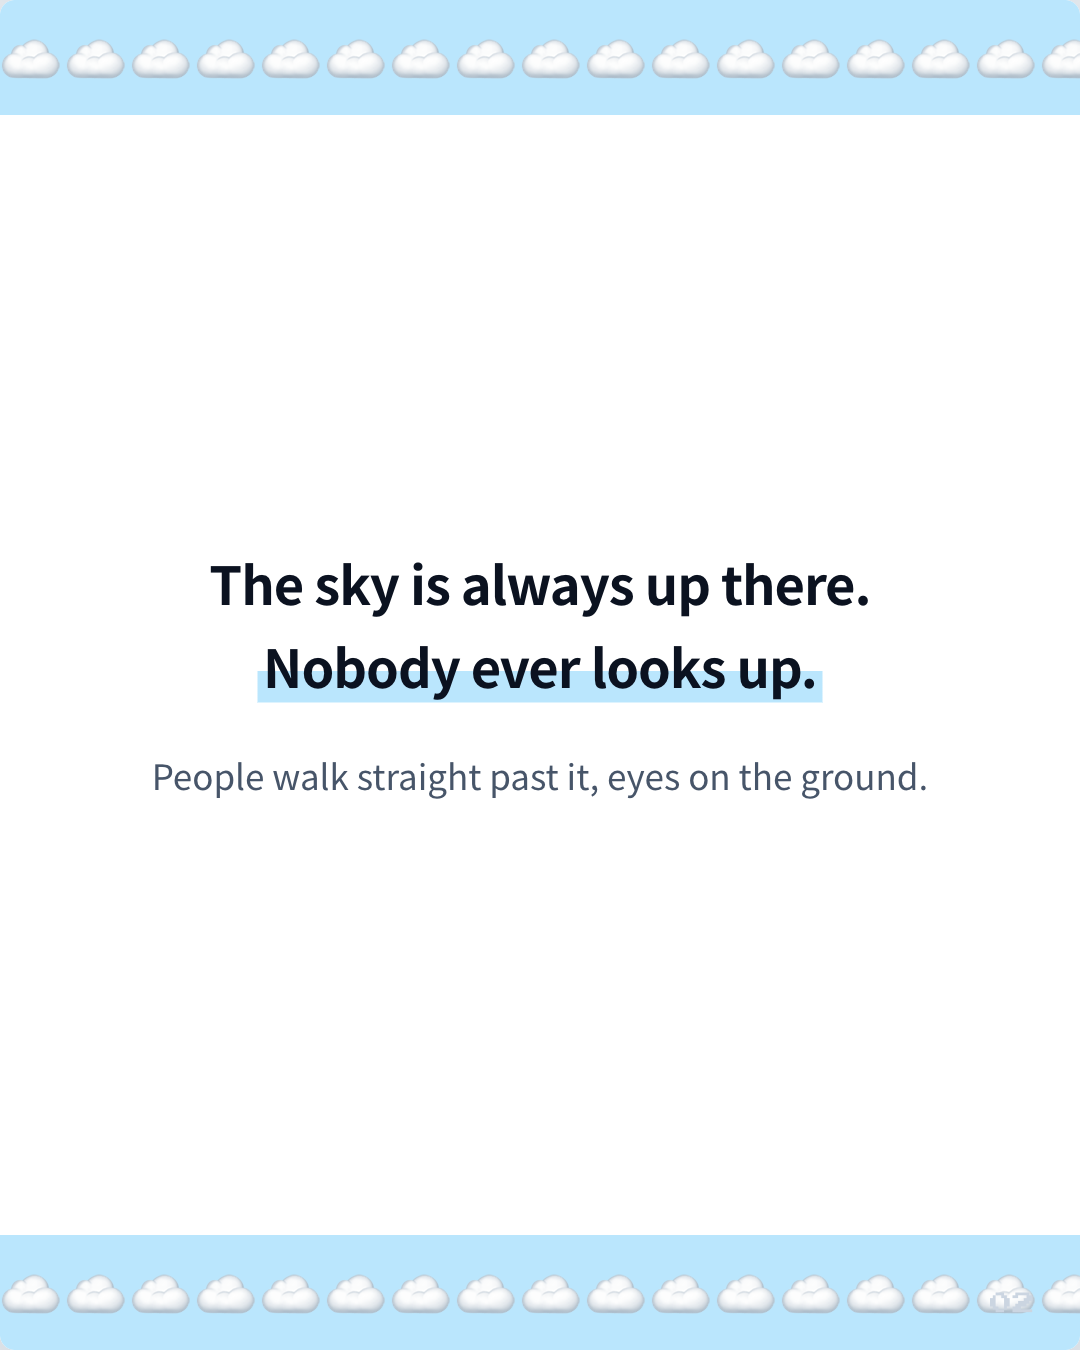
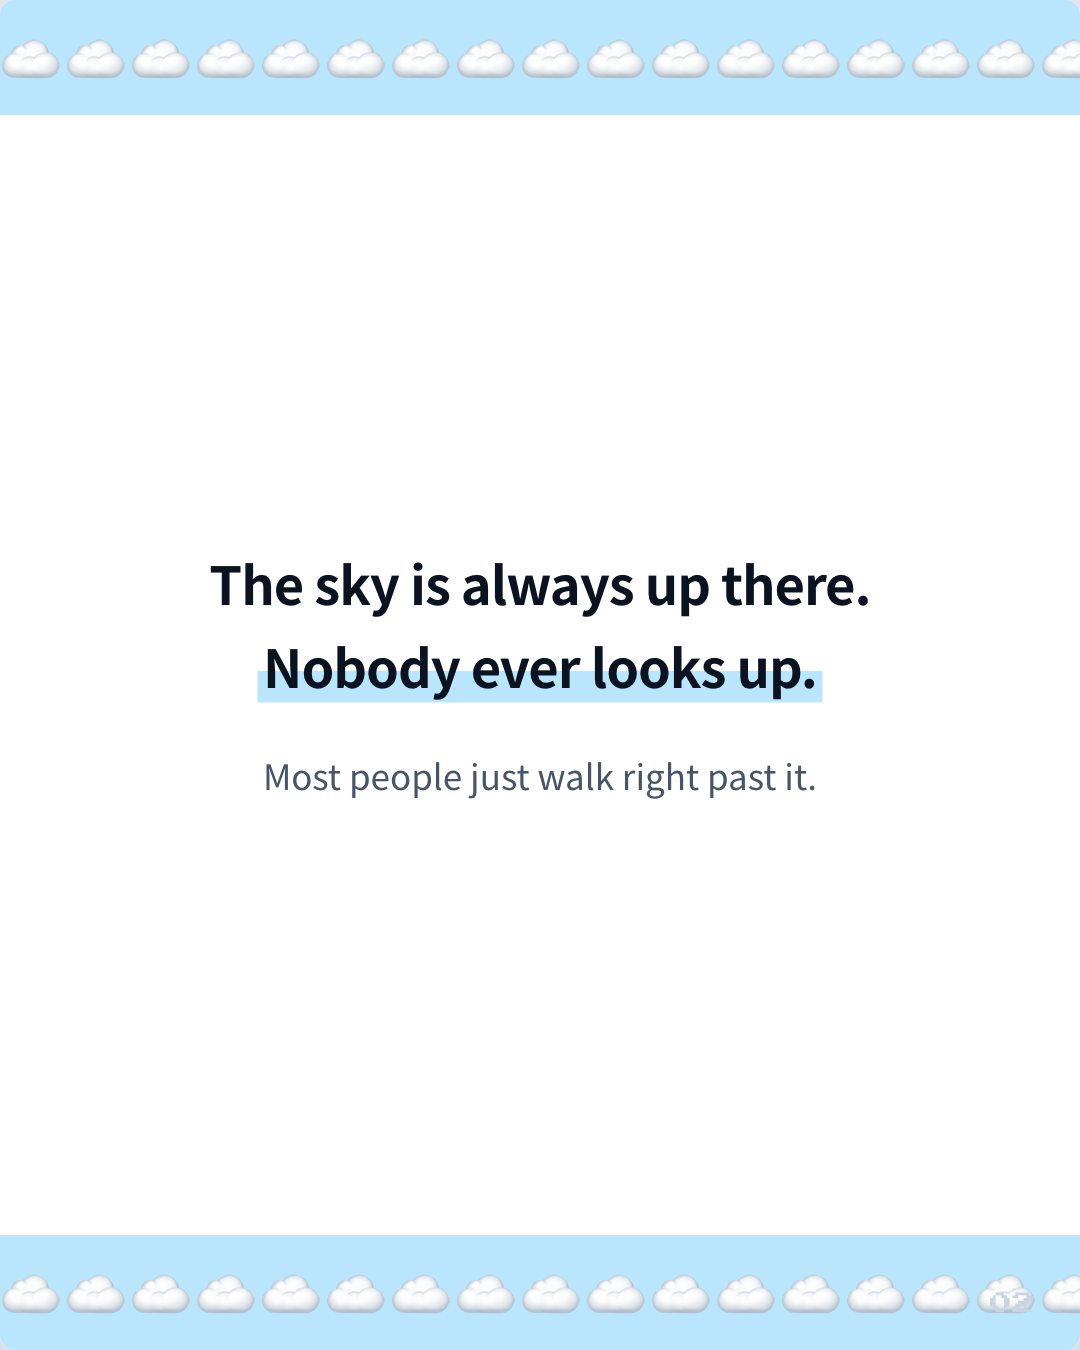
copy(en): AI 티 나는 표현 평범하게 (02·04·06)

Changed region(s): [[0.1222, 0.56, 0.8556, 0.5911]]

diff --git a/cardnews_en.html b/cardnews_en.html
@@ -225,7 +225,7 @@
     <section class="card">
       <div class="cloud-band top">☁☁☁☁☁☁☁☁☁☁☁☁☁☁☁☁☁☁☁☁</div>
       <p class="lead">The sky is always up there.<br><span class="hi">Nobody ever looks up.</span></p>
-      <p class="body">People walk straight past it, eyes on the ground.</p>
+      <p class="body">Most people just walk right past it.</p>
       <div class="cloud-band bottom">☁☁☁☁☁☁☁☁☁☁☁☁☁☁☁☁☁☁☁☁</div>
       <div class="num">02</div>
     </section>
@@ -242,7 +242,7 @@
     <section class="card">
       <div class="cloud-band top">☁☁☁☁☁☁☁☁☁☁☁☁☁☁☁☁☁☁☁☁</div>
       <p class="lead">So I put the sky<br><span class="hi">down on the ground.</span></p>
-      <p class="body">Mirror tiles, stuck to a forgotten corner behind N25. Now the sky shows up even when you look down.</p>
+      <p class="body">I stuck mirror tiles on an unused spot behind N25. Look down, and the sky's right there.</p>
       <div class="cloud-band bottom">☁☁☁☁☁☁☁☁☁☁☁☁☁☁☁☁☁☁☁☁</div>
       <div class="num">04</div>
     </section>
@@ -263,7 +263,7 @@
         <div class="me">🧍</div>
         <div class="band-mini">REFLECTED SKY</div>
       </div>
-      <p class="lead">Real sky above, reflected sky below.<br><span class="hi">The one in between is a sandwich.</span></p>
+      <p class="lead">Sky above you, sky below you.<br><span class="hi">You're the sandwich.</span></p>
       <div class="cloud-band bottom">☁☁☁☁☁☁☁☁☁☁☁☁☁☁☁☁☁☁☁☁</div>
       <div class="num">06</div>
     </section>
